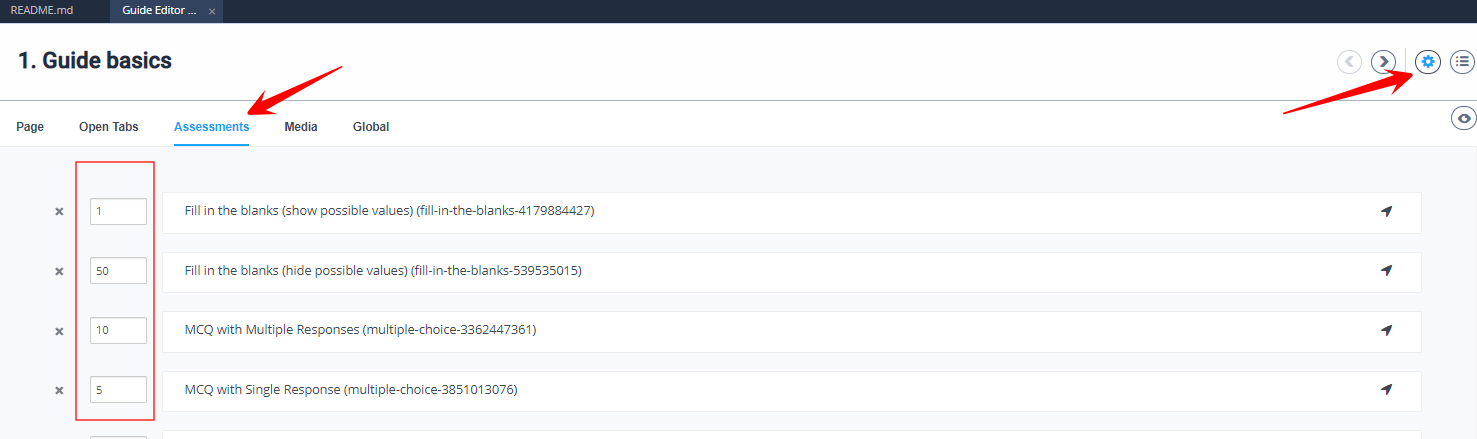
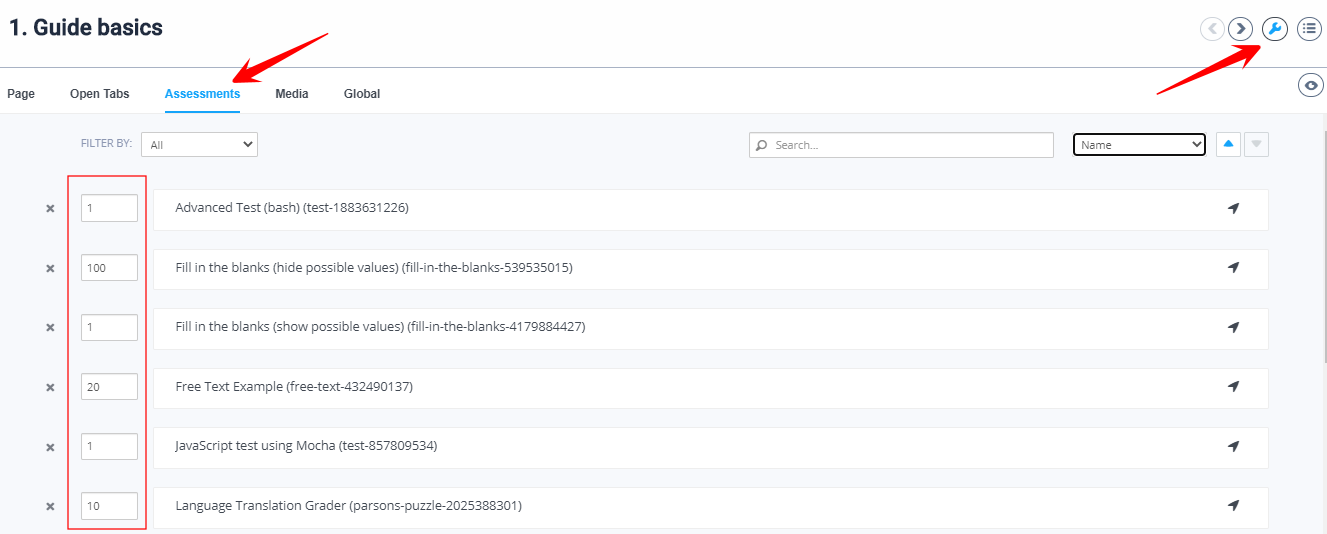
29sepupdate (#52)
* changelog #11848

* changelog #11941

* changelog #11449

* update autostarting

* changelog #11808

* changelog #11495 #11836

diff --git a/docs/courses/assessments.md b/docs/courses/assessments.md
@@ -41,7 +41,7 @@ Select the page where your assessment is located. Then remove the assessment tok
 
 ![Assessment token](/img/assessmenttoken.png)
 
-Once deleted, an assessment remains hidden. To fully remove it, press the **Settings** icon in the authoring toolbar then select the **Assessments** tab. All assessments present in the current project are listed. Deleted ones are highlighted in red. Press the red **x** button to delete it.
+Once deleted, an assessment remains hidden. To fully remove it, press the **Settings** icon in the authoring toolbar then select the **Assessments** tab. All assessments present in the current project are listed. Deleted ones are highlighted in red. Press the red **x** button to delete it.  You can search for assessments by name,points or order in guides and order them up or down using the arrow buttons
 
 ### Autograding when a student completes a assignment
 Codio allows you to run a special auto-grading script as soon as an assignment is completed by the student. This special type of assessment is managed from the assignment settings page in a course. [Click here](/courses/classes/#running-an-auto-grade-script) for details.
@@ -478,7 +478,7 @@ The example below shows a typical question where the student has to complete the
 ![authtoken](/img/guides/assessments-fitb1.png)
 
 ### Drop Down
-The example below shows a variation, where the student is given a list of possible answers and has to select the right answer from a drop down list of possible answers. This is then auto-graded as explained below.
+The example below shows a variation, where the student is given a list of possible answers and has to select the right answer from a drop down list of possible answers. This is then auto-graded as explained below.  You can also add distractors (ie wrong answers).
 
 ![authtoken](/img/guides/assessments-fitb2.png)
 
@@ -504,7 +504,9 @@ For a free text question (**Show Possible Values** slider to the left), Codio sh
 
 
 
-For a drop-down question (**Show Possible Values** slider to the right) Codio will gather all correct values (anything within the `<<< >>>` chevrons) into a drop-down list and offer the same list in each of the answer positions.
+For a drop-down question (**Show Possible Values** slider to the right) Codio will gather all correct values (anything within the `<<< >>>` chevrons) into a drop-down list, randomise the order and offer the same list in each of the answer positions. You can also add distractors (wrong answers) to the drop down by listing them in the text area below. One distractor per line
+
+![Distractors](/img/guides/distractors.png)
 
 #### [Regular Expression](https://en.wikipedia.org/wiki/Regular_expression) support
 

diff --git a/docs/project/ide/boxes.md b/docs/project/ide/boxes.md
@@ -185,7 +185,7 @@ $ sudo service <package-name> start
 $ sudo service <package-name> stop
 $ sudo service <package-name> restart
 ```
-For the bash script to be included in the stack we'd recommend `/home/codio/startup.sh`.
+For the bash script to be included in the stack we'd recommend `/home/codio/startup.sh`, and installing `Autostart Support` from `Tools->Install Software`.
 If your project is using guides, you can use `.guides/startup.sh` or you can locate this file in the workspace although bear in mind that students may be able to access/edit files visible to them in the workspace. 
 
 
@@ -449,7 +449,7 @@ You can grant access to other Codio users by assigning the Admin permission leve
 For full details, please refer to the [Permissions section](/project/ide/settings/#project-permissions) of the documentation.
 ## Auto starting services
 Your Box will be put to sleep under the conditions [explained here](/project/ide/boxes/#overview). When you open your project, the Box will start and services will start. Software installed using `Tools->Install Software` will be automatically configured to autostart.
-If you have need to autostart other services, you can do so within a `startup.sh` bash script located in your project.
+If you have need to autostart other services, you can do so within a `startup.sh` bash script located in your project, and also installing `Autostart Support` from `Tools->Install Software`.
 For the script to be included in the stack we'd recommend `/home/codio/startup.sh`.
 If your project is using guides, you can use `.guides/startup.sh` or you can locate this file in the workspace although bear in mind that students may be able to access/edit files visible to them in the workspace. 
 

diff --git a/docs/courses/authoring.md b/docs/courses/authoring.md
@@ -495,19 +495,22 @@ In writing content, it is sometimes useful to provide information for the studen
 
 This can be achieved with collapsible content and the `<details> <summary>` elements. The content is treated as HTML and as such a mix of HTML and Markdown can be required.
 #### Notes
+- If including code blocks, ensure you have an empty line after the closing ``</summary>`` tag.
 - All code block starter lines, e.g. ` ```js ` must be preceded by a blank line. 
 - The closing block ` ``` ` tag must be followed by a newline. 
+- If you have multiple collapsible sections, ensure you have an empty line after the closing ``</details>`` tag.
+- If you wish to have the content showing by default, use `<details  open>`.
 
 **Example**
 
 ![CollapsibleContent](/img/guides/collapsible.png)
 
-To achieve this result, the code is comprised below (in 3 code blocks to ensure all presents correctly)
+To achieve this result, the code is comprised below (in 3 code blocks to ensure all presents correctly here)
 
 ```markdown
 ## Example Collapsible Content
 
-<table><tbody ><tr><td><details><summary>
+<details><summary>
 	There are some <b>Special Numeric Values</b> which are part of the number data type. For each of the variables <code>a</code> <code>b</code>and <code>c</code> print out their data types and values.
 </summary><hr>
 
@@ -531,7 +534,7 @@ const name = {
 }
 ```
 ```
-</details></td></tr></tbody></table>
+</details>
 ```
 
 ### Cheat Sheet

diff --git a/docs/resources/changelog.md b/docs/resources/changelog.md
@@ -11,8 +11,15 @@ We do not report small bug fixes or issues that affect individual users, who we 
 `[I]` = Update or improvement
 `[F]` = New feature
 
+**October 2020**
+
+- `[I] [ 2nd]`: Update handling of course dashboard loading to improve loading times on slow/intermittent internet connections
+- `[I] [ 1st]`: Add ability to seach list of assessments in a project by name,point or order in guides.
+
 **September 2020**
 
+- `[I] [29th]`: Fix issue with [Desktop App](/dashboard/desktopapp/) when connecting to assignments in courses
+- `[F] [29th]`: Add distractors for [Fill in the blank](courses/assessments/#execution_3) assessment when showing possible values
 - `[F] [25th]`: Add Time Limit option for [exam proctoring](/courses/classes/#exam-proctoring)
 - `[I] [25th]`: Allow [deadlines](/courses/classes/#adjusting-deadline-for-individual-students) to be adjusted forward by days/hours and minutes
 - `[I] [23rd]`: Update handling of visibility on completed to require students to change status of assignment from completed to be able to continue working
